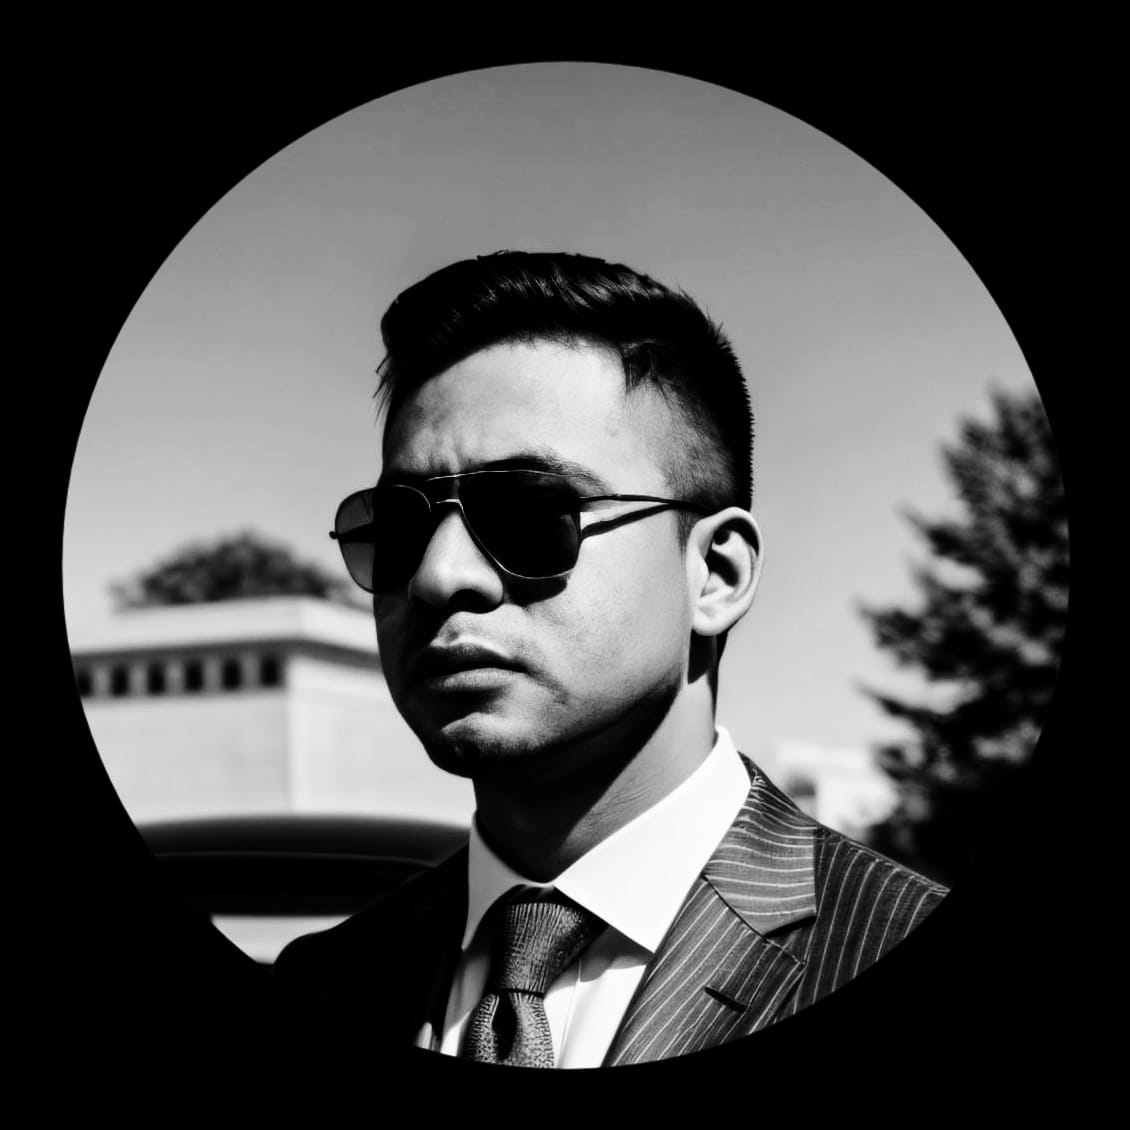
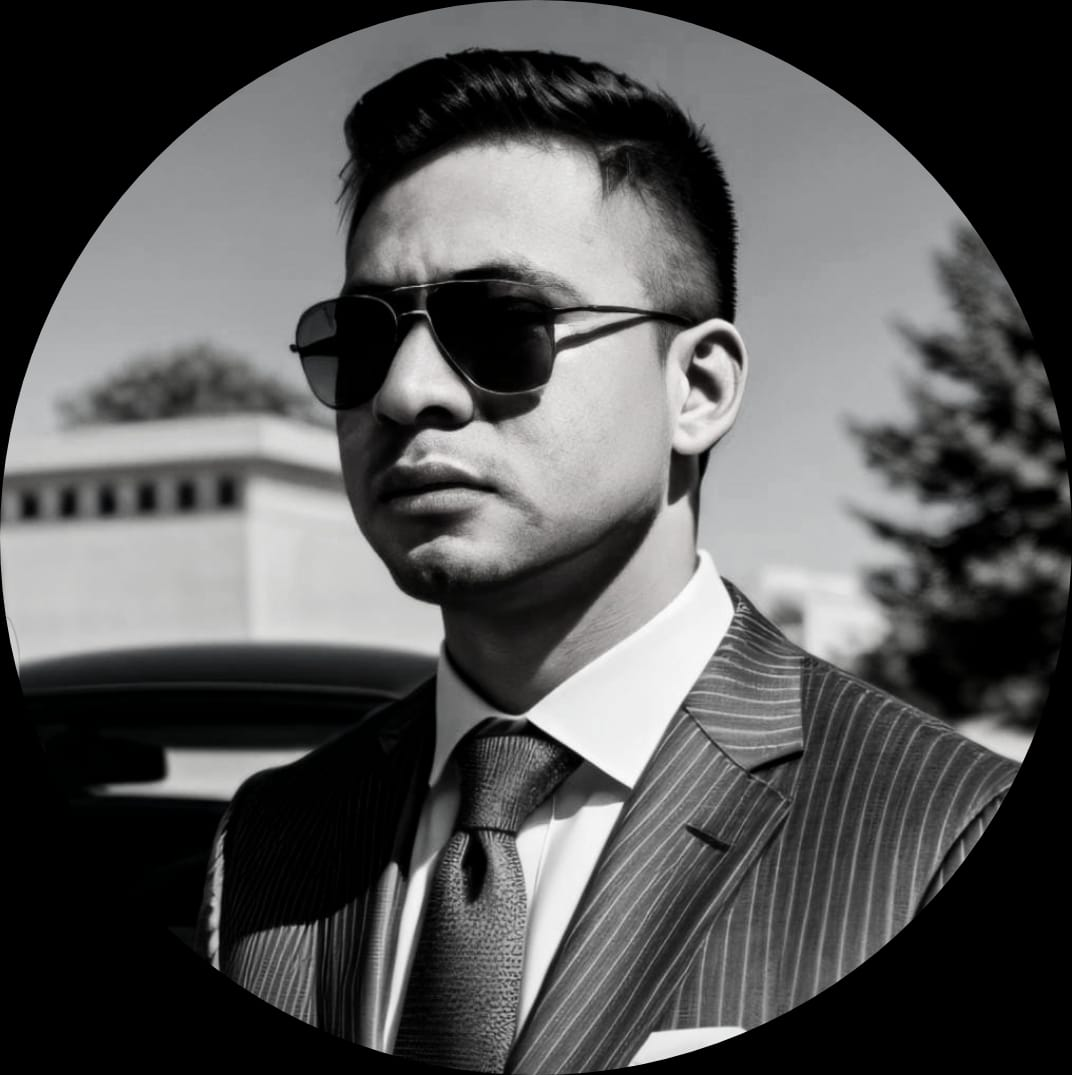
imagenes
Se cambio una imagen  por las diferencias de marco

diff --git a/code/my_profile/index.html b/code/my_profile/index.html
@@ -342,9 +342,6 @@
             "El éxito no se mide por lo que logras, sino por <br>los obstáculos que superas en el camino."
         </p>
         <div class="icons-sn d-flex flex-wrap align-items-center justify-content-center">
-            <a href="https://twitter.com/tuusuario" target="_blank" rel="noopener noreferrer">
-                <i class="bi-twitter"></i>
-            </a>
             <a href="https://www.facebook.com/tuusuario" target="_blank" rel="noopener noreferrer">
                 <i class="bi-facebook"></i>
             </a>
@@ -355,7 +352,7 @@
                 <i class="bi-linkedin"></i>
             </a>
             <a href="https://www.instagram.com/ernesto_ramosss" target="_blank" rel="noopener noreferrer">
-                <i class="bi bi-instagram"></i> Mi perfil de Instagram
+                <i class="bi bi-instagram"></i>
             </a>
             <a href="mailto:tucorreo@example.com" target="_blank" rel="noopener noreferrer">
                 <i class="bi-envelope"></i>
